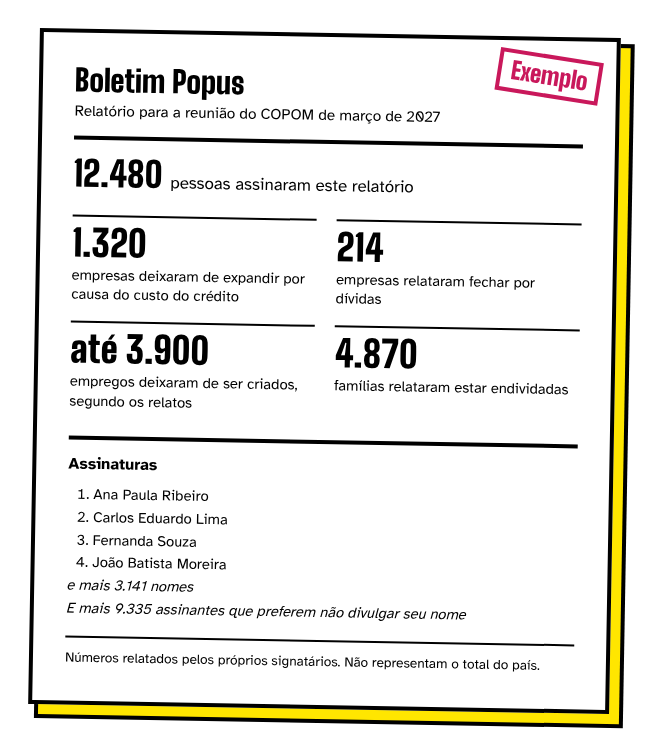
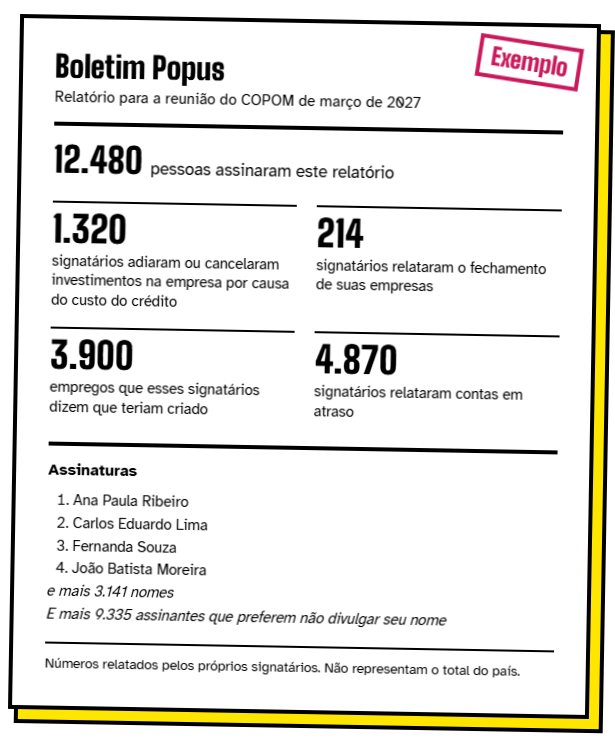
Relato: métricas definidas, UF sem município, política v0.2

Changed region(s): [[0.0, 0.0, 1.0, 0.9826]]

diff --git a/privacidade.html b/privacidade.html
@@ -265,7 +265,7 @@ tbody th { font-weight: 700; background: #f3f3f3; }
 <header class="topo">
   <a class="marca-pequena" href="/">Boletim<span>Popus</span></a>
   <h1>Política de privacidade</h1>
-  <p class="versao">Versão 0.1 · 11 de novembro de 2026</p>
+  <p class="versao">Versão 0.2 · 12 de novembro de 2026</p>
   <!-- MINUTA: remover este aviso e as marcas [PENDENTE] depois da revisão jurídica. -->
   <p class="minuta">Minuta em revisão jurídica. Este texto ainda não está em vigor e pode mudar antes do lançamento.</p>
 </header>
@@ -275,9 +275,10 @@ tbody th { font-weight: 700; background: #f3f3f3; }
   <section class="resumo" aria-labelledby="t-resumo">
     <h2 id="t-resumo">Em poucas palavras</h2>
     <ul>
-      <li>Para assinar, pedimos <strong>nome, e-mail e CPF</strong>. UF e município são opcionais.</li>
+      <li>Para assinar, pedimos <strong>nome, e-mail e CPF</strong>. O estado (UF) é opcional.</li>
       <li>Assinar um abaixo-assinado revela uma opinião política. Por isso, <strong>tratamos todos os seus dados como dados sensíveis</strong> e só usamos com o seu consentimento.</li>
       <li><strong>Seu CPF nunca é publicado nem enviado a ninguém.</strong> Ele serve só para garantir uma assinatura por pessoa e é guardado de forma embaralhada.</li>
+      <li>Depois de assinar, você pode <strong>contar como os juros afetaram sua vida</strong>, num questionário opcional, com um consentimento próprio. As respostas só entram no relatório como números somados, nunca individualmente.</li>
       <li><strong>Seu nome só aparece no relatório e no site se você autorizar.</strong> Se autorizar, ele pode aparecer em buscadores como o Google.</li>
       <li>O relatório é entregue ao Banco Central e ao Ministério da Fazenda e publicado no site antes de cada reunião do COPOM.</li>
       <li><strong>Não vendemos seus dados</strong>, não usamos publicidade e não rastreamos se você abre nossos e-mails.</li>
@@ -333,11 +334,28 @@ tbody th { font-weight: 700; background: #f3f3f3; }
         <tr><th scope="row">Nome completo</th><td>Sim</td><td>Publicado só se você autorizar.</td></tr>
         <tr><th scope="row">E-mail</th><td>Sim</td><td>Usado para confirmar a assinatura e para você gerenciá-la.</td></tr>
         <tr><th scope="row">CPF</th><td>Sim</td><td>Nunca publicado nem enviado. Veja a <a href="#cpf">seção 5</a>.</td></tr>
-        <tr><th scope="row">UF e município</th><td>Não</td><td>Usados só em números regionais agregados.</td></tr>
+        <tr><th scope="row">Estado (UF)</th><td>Não</td><td>Usado só para contar quantas assinaturas há em cada estado.</td></tr>
         <tr><th scope="row">Suas escolhas</th><td>Sim</td><td>Se autoriza publicar o nome, se quer receber lembretes e a declaração de que tem 18 anos ou mais.</td></tr>
       </tbody>
     </table>
   </div>
+
+  <h3>Dados que você informa no relato (opcional)</h3>
+  <p>Depois de assinar, você pode responder um questionário sobre como os juros afetaram você nos últimos 12 meses. Ele só é aberto com um consentimento próprio, separado do da assinatura, e as perguntas que aparecem dependem das suas respostas. <span class="pendente">[PENDENTE: revisão jurídica das perguntas do relato]</span></p>
+  <div class="tabela">
+    <table>
+      <thead><tr><th scope="col">Tema</th><th scope="col">O que perguntamos</th></tr></thead>
+      <tbody>
+        <tr><th scope="row">Como os juros te afetaram</th><td>Se como pessoa física, como dono, sócio ou administrador de empresa, ou os dois.</td></tr>
+        <tr><th scope="row">Sua empresa</th><td>Se ela fechou, pediu recuperação judicial ou extrajudicial ou renegociou dívidas para não fechar; quantas pessoas trabalhavam nela; se você adiou ou desistiu de um investimento e quantas pessoas contrataria; o CNPJ, se quiser informar.</td></tr>
+        <tr><th scope="row">Crédito fora de banco</th><td>Só se você pegou dinheiro emprestado com juros fora de banco ou financeira (sim ou não). Não perguntamos de quem, quanto nem onde.</td></tr>
+        <tr><th scope="row">Compras</th><td>Se você adiou ou desistiu de comprar um veículo, um imóvel ou de reformar a casa.</td></tr>
+        <tr><th scope="row">Dívidas</th><td>Se tem contas em atraso, se acha que não vai conseguir pagá-las, a faixa da renda que vai para parcelas de dívidas, os tipos de dívida (rotativo, cheque especial, consignado, financiamento) e se teve o nome negativado.</td></tr>
+        <tr><th scope="row">Papel dos juros</th><td>Se os juros foram a causa principal ou um dos fatores.</td></tr>
+      </tbody>
+    </table>
+  </div>
+  <p>O CNPJ, se informado, é guardado só em forma embaralhada (HMAC), como o CPF, e serve apenas para não contar a mesma empresa duas vezes. Não pedimos valores em reais nem a sua renda.</p>
 
   <h3>Dados gerados quando você usa o site</h3>
   <ul>
@@ -352,7 +370,7 @@ tbody th { font-weight: 700; background: #f3f3f3; }
   <p>Se você escrever para o encarregado, guardamos a mensagem e o que for necessário para responder. Se pedirmos alguma informação para confirmar sua identidade, ela é usada só para isso e descartada assim que o pedido for atendido.</p>
 
   <h3>O que não coletamos</h3>
-  <p>Não pedimos telefone, endereço, data de nascimento nem renda. Não usamos ferramentas de análise de audiência, pixels de redes sociais nem publicidade, e não rastreamos aberturas ou cliques nos nossos e-mails.</p>
+  <p>Não pedimos telefone, endereço, município, data de nascimento, renda nem valores em reais. No relato, perguntamos apenas a faixa da renda que vai para parcelas de dívidas. Não usamos ferramentas de análise de audiência, pixels de redes sociais nem publicidade, e não rastreamos aberturas ou cliques nos nossos e-mails.</p>
 
   <!-- 4 -->
   <h2 id="finalidades">4. Para que usamos e com qual base legal</h2>
@@ -371,9 +389,14 @@ tbody th { font-weight: 700; background: #f3f3f3; }
           <td>Consentimento específico, numa caixa própria (art. 11, I)</td>
         </tr>
         <tr>
-          <th scope="row">Mostrar números regionais agregados</th>
-          <td>UF e município, se informados</td>
+          <th scope="row">Mostrar o número de assinaturas por estado</th>
+          <td>UF, se informada</td>
           <td>Consentimento (art. 11, I)</td>
+        </tr>
+        <tr>
+          <th scope="row">Somar os relatos e publicar os números agregados no relatório</th>
+          <td>Respostas do relato, CNPJ (embaralhado)</td>
+          <td>Consentimento específico, numa caixa própria (art. 11, I)</td>
         </tr>
         <tr>
           <th scope="row">Enviar e-mails necessários para a assinatura funcionar</th>
@@ -398,7 +421,7 @@ tbody th { font-weight: 700; background: #f3f3f3; }
       </tbody>
     </table>
   </div>
-  <p>Não usamos seus dados para nenhuma outra finalidade. Em especial, não cedemos a base de assinaturas a partidos, candidatos, empresas ou outras campanhas.</p>
+  <p>Não usamos seus dados para nenhuma outra finalidade. Em especial, não cedemos a base de assinaturas nem os relatos a partidos, candidatos, empresas ou outras campanhas.</p>
 
   <!-- 5 -->
   <h2 id="cpf">5. Como tratamos o seu CPF</h2>
@@ -410,16 +433,17 @@ tbody th { font-weight: 700; background: #f3f3f3; }
   </ol>
   <p>O código permite saber se o mesmo CPF já assinou, mas não permite recuperar o número. Se dois cadastros usarem o mesmo CPF, os dois saem da contagem até uma revisão manual.</p>
   <p><strong>Não consultamos a Receita Federal.</strong> Por isso, o relatório diz apenas que há uma assinatura por CPF com formato válido e e-mail confirmado, nunca que o CPF foi verificado.</p>
-  <p>Seu CPF nunca é publicado, nunca vai no relatório e nunca é enviado a órgãos públicos nem a fornecedores.</p>
+  <p>Seu CPF nunca é publicado, nunca vai no relatório e nunca é enviado a órgãos públicos nem a fornecedores. O mesmo vale para o CNPJ informado no relato.</p>
 
   <!-- 6 -->
   <h2 id="publicacao">6. O que é publicado e entregue</h2>
-  <p>Antes de cada reunião do COPOM, congelamos as assinaturas ativas e geramos um relatório em PDF. O relatório é protocolado na Ouvidoria do Banco Central e na plataforma Fala.BR, enviado ao Ministério da Fazenda e publicado no site.</p>
+  <p>Antes de cada reunião do COPOM, congelamos as assinaturas ativas e os relatos e geramos um relatório em PDF. O relatório é protocolado na Ouvidoria do Banco Central e na plataforma Fala.BR, enviado ao Ministério da Fazenda e publicado no site.</p>
   <h3>O relatório traz</h3>
   <ul>
     <li>o total de assinaturas e as novas assinaturas do ciclo;</li>
-    <li>números regionais <strong>agregados</strong>, calculados só sobre quem informou UF e município. Recortes com poucos signatários não são publicados, para que ninguém seja identificado;</li>
-    <li>um anexo com os <strong>nomes de quem autorizou a publicação</strong>, sem CPF, e-mail, UF ou município. Quem não autorizou entra só na contagem.</li>
+    <li>o número de assinaturas por estado, contado só sobre quem informou a UF;</li>
+    <li>números <strong>agregados</strong> dos relatos, sempre como contagem de signatários (por exemplo, "x signatários relataram o fechamento de suas empresas"). Nenhuma resposta individual é publicada;</li>
+    <li>um anexo com os <strong>nomes de quem autorizou a publicação</strong>, sem CPF, e-mail ou UF. Quem não autorizou entra só na contagem.</li>
   </ul>
   <div class="destaque">
     <p><strong>Se você autorizar a publicação do seu nome:</strong></p>
@@ -460,9 +484,10 @@ tbody th { font-weight: 700; background: #f3f3f3; }
     <table>
       <thead><tr><th scope="col">Situação</th><th scope="col">Por quanto tempo</th></tr></thead>
       <tbody>
-        <tr><th scope="row">Assinatura não confirmada por e-mail</th><td>Apagada após 7 dias</td></tr>
+        <tr><th scope="row">Assinatura não confirmada por e-mail</th><td>Apagada após 7 dias, junto com o relato, se houver</td></tr>
         <tr><th scope="row">Assinatura ativa</th><td>Enquanto você não retirar. A assinatura vale para todos os relatórios seguintes</td></tr>
-        <tr><th scope="row">Assinatura retirada</th><td>Nome, e-mail, CPF embaralhado, UF e município são apagados no congelamento seguinte. Até lá, você pode restaurar a assinatura. Se pedir, apagamos antes</td></tr>
+        <tr><th scope="row">Relato</th><td>Enquanto a assinatura estiver ativa, ou até você retirar o consentimento do relato</td></tr>
+        <tr><th scope="row">Assinatura retirada</th><td>Nome, e-mail, CPF embaralhado, UF e respostas do relato são apagados no congelamento seguinte. Até lá, você pode restaurar a assinatura. Se pedir, apagamos antes</td></tr>
         <tr><th scope="row">Registro mínimo de consentimento e retirada</th><td>Guardado como prova, mesmo depois da retirada, por <span class="pendente">[PENDENTE: prazo]</span></td></tr>
         <tr><th scope="row">Nomes em relatórios já entregues</th><td>Permanecem nesses relatórios, que são documentos históricos</td></tr>
         <tr><th scope="row">Registros de acesso (logs)</th><td>90 dias <span class="pendente">[PENDENTE: confirmar se o Marco Civil exige 6 meses]</span></td></tr>
@@ -488,7 +513,7 @@ tbody th { font-weight: 700; background: #f3f3f3; }
 
   <h3>Como pedir</h3>
   <ul>
-    <li><strong>Na página <a href="/meus-dados" data-em-breve="A página Meus Dados ainda está em construção.">Meus dados</a>:</strong> informe seu e-mail e enviaremos um link de acesso. Lá você vê seus dados, corrige o nome, muda a escolha de publicação, deixa de receber lembretes e retira ou restaura sua assinatura. Para que ninguém descubra quem assinou, a resposta é sempre "se houver cadastro, enviamos um link".</li>
+    <li><strong>Na página <a href="/meus-dados" data-em-breve="A página Meus Dados ainda está em construção.">Meus dados</a>:</strong> informe seu e-mail e enviaremos um link de acesso. Lá você vê seus dados, corrige o nome, muda a escolha de publicação, completa ou atualiza o relato, deixa de receber lembretes e retira ou restaura sua assinatura. Para que ninguém descubra quem assinou, a resposta é sempre "se houver cadastro, enviamos um link".</li>
     <li><strong>Por e-mail ao encarregado</strong> (<a href="mailto:privacidade@exemplo.org">privacidade@exemplo.org</a>): para qualquer outro pedido, ou se você perdeu o acesso ao e-mail cadastrado. Nesse caso, vamos pedir o mínimo necessário para confirmar que você é o titular.</li>
     <li><strong>Em todo e-mail que enviamos</strong> há um link para gerenciar ou retirar sua assinatura.</li>
   </ul>
@@ -496,7 +521,8 @@ tbody th { font-weight: 700; background: #f3f3f3; }
 
   <h3>O que acontece se você retirar o consentimento</h3>
   <ul>
-    <li><strong>Retirar a assinatura:</strong> ela deixa de contar nos próximos relatórios e seus dados são apagados como descrito na <a href="#guarda">seção 9</a>. Até o congelamento, enviamos um e-mail para você restaurar, caso não tenha sido você quem retirou.</li>
+    <li><strong>Retirar a assinatura:</strong> ela deixa de contar nos próximos relatórios, junto com o seu relato, e seus dados são apagados como descrito na <a href="#guarda">seção 9</a>. Até o congelamento, enviamos um e-mail para você restaurar, caso não tenha sido você quem retirou.</li>
+    <li><strong>Retirar o consentimento do relato:</strong> suas respostas são apagadas e deixam de contar nos próximos relatórios. A assinatura continua valendo.</li>
     <li><strong>Desautorizar a publicação do nome:</strong> sua assinatura continua contando, mas seu nome sai dos próximos relatórios.</li>
     <li><strong>Deixar de receber lembretes:</strong> sua assinatura continua ativa. Você segue recebendo só os e-mails necessários (<a href="#emails">seção 11</a>).</li>
   </ul>
@@ -513,6 +539,7 @@ tbody th { font-weight: 700; background: #f3f3f3; }
     <li>links de acesso a Meus dados, quando você pedir;</li>
     <li>aviso de retirada, com a opção de restaurar caso não tenha sido você;</li>
     <li>um aviso por ano de que sua assinatura continua ativa, com o link para gerenciá-la;</li>
+    <li>pedido de confirmação, se uma resposta do relato estiver muito fora do comum (por exemplo, uma empresa com mais de 100 funcionários). Sem a sua confirmação, essa resposta não entra na soma;</li>
     <li>avisos de mudanças importantes nesta política.</li>
   </ul>
   <h3>Só para quem marcou a caixa de lembretes</h3>
@@ -536,7 +563,7 @@ tbody th { font-weight: 700; background: #f3f3f3; }
   <h2 id="seguranca">13. Segurança</h2>
   <ul>
     <li>Todo o tráfego do site é criptografado (HTTPS).</li>
-    <li>O CPF é guardado só como código embaralhado, com chave secreta mantida fora do banco e das cópias de segurança.</li>
+    <li>O CPF e o CNPJ são guardados só como código embaralhado, com chave secreta mantida fora do banco e das cópias de segurança.</li>
     <li>Links de acesso são de uso único, expiram rápido e são guardados de forma embaralhada.</li>
     <li>As cópias de segurança são criptografadas.</li>
     <li>O acesso ao banco de dados é restrito ao responsável pelo projeto.</li>
@@ -550,7 +577,7 @@ tbody th { font-weight: 700; background: #f3f3f3; }
 
   <!-- 15 -->
   <h2 id="mudancas">15. Mudanças nesta política</h2>
-  <p>Cada versão desta política tem número e data, e guardamos em qual versão você deu cada consentimento. Se mudarmos algo importante, avisaremos por e-mail antes de a mudança valer. Se quisermos usar seus dados para uma finalidade nova, como um formulário de relato sobre o impacto dos juros na sua vida, vamos pedir um consentimento novo e separado.</p>
+  <p>Cada versão desta política tem número e data, e guardamos em qual versão você deu cada consentimento. Se mudarmos algo importante, avisaremos por e-mail antes de a mudança valer. Se quisermos usar seus dados para uma finalidade nova, vamos pedir um consentimento novo e separado.</p>
 
   <h2 id="contato">Contato</h2>
   <p>Dúvidas sobre esta política ou sobre seus dados: <a href="mailto:privacidade@exemplo.org">privacidade@exemplo.org</a>.</p>

diff --git a/index.html b/index.html
@@ -622,7 +622,7 @@ a { color: inherit; }
     <ol class="passos">
       <li>
         <h3>Você assina</h3>
-        <p>Com seu nome, e-mail e CPF; estado e cidade são opcionais. O CPF garante uma assinatura por pessoa e nunca é publicado. Leva menos de um minuto.</p>
+        <p>Com seu nome, e-mail e CPF; o estado é opcional. O CPF garante uma assinatura por pessoa e nunca é publicado. Leva menos de um minuto.</p>
       </li>
       <li>
         <h3>Você conta sua história <span class="opcional">(opcional)</span></h3>
@@ -643,7 +643,7 @@ a { color: inherit; }
     <div class="modelo">
       <div class="modelo-texto">
         <h3>Como o relatório vai ficar</h3>
-        <p>Além do total de assinaturas e dos nomes de quem autorizou a publicação, o relatório reúne o que as pessoas contam sobre o impacto dos juros na vida delas: empresas que deixaram de crescer, negócios que fecharam, famílias endividadas.</p>
+        <p>Além do total de assinaturas e dos nomes de quem autorizou a publicação, o relatório reúne o que os signatários contam sobre o impacto dos juros na vida deles: investimentos adiados, empresas fechadas, contas em atraso, compras que ficaram para depois.</p>
         <p>Os números deste modelo são fictícios e servem só para mostrar o formato.</p>
       </div>
 
@@ -657,10 +657,10 @@ a { color: inherit; }
         <p class="folha-total"><strong>12.480</strong> pessoas assinaram este relatório</p>
 
         <dl class="folha-numeros">
-          <div><dt>1.320</dt><dd>empresas deixaram de expandir por causa do custo do crédito</dd></div>
-          <div><dt>214</dt><dd>empresas relataram fechar por dívidas</dd></div>
-          <div><dt>até 3.900</dt><dd>empregos deixaram de ser criados, segundo os relatos</dd></div>
-          <div><dt>4.870</dt><dd>famílias relataram estar endividadas</dd></div>
+          <div><dt>1.320</dt><dd>signatários adiaram ou cancelaram investimentos na empresa por causa do custo do crédito</dd></div>
+          <div><dt>214</dt><dd>signatários relataram o fechamento de suas empresas</dd></div>
+          <div><dt>3.900</dt><dd>empregos que esses signatários dizem que teriam criado</dd></div>
+          <div><dt>4.870</dt><dd>signatários relataram contas em atraso</dd></div>
         </dl>
 
         <div class="folha-anexo">

diff --git a/README.md b/README.md
@@ -10,7 +10,7 @@ O Boletim Popus é um abaixo-assinado permanente contra a política de juros do 
 
 É um contraponto ao [Boletim Focus](https://www.bcb.gov.br/publicacoes/focus): o Focus reúne as projeções dos economistas do mercado; o Popus reúne a voz de quem toma crédito.
 
-> **Status:** protótipo. A landing page e a minuta da política de privacidade estão prontas, sem backend. O MVP vai coletar assinaturas e relatos desde o início. O primeiro relatório oficial está previsto para a reunião do COPOM de 16–17 de março de 2027.
+> **Status:** protótipo. A landing page e a minuta da política de privacidade estão prontas, sem backend. As métricas do relatório e as perguntas do relato estão definidas. O MVP vai coletar assinaturas e relatos desde o início. O primeiro relatório oficial está previsto para a reunião do COPOM de 16–17 de março de 2027.
 
 ## A ideia
 
@@ -30,8 +30,8 @@ A landing page é uma sequência de cartazes no estilo lambe-lambe, um por tema,
 
 | Passo | O que acontece |
 |---|---|
-| 1. Você assina | Com nome, e-mail e CPF; UF e município são opcionais. Leva menos de 1 minuto. O CPF garante uma assinatura por pessoa e nunca é publicado. |
-| 2. Você conta sua história (opcional) | Logo depois de assinar, você pode responder um questionário curto sobre como os juros afetaram sua vida, sua família ou sua empresa. |
+| 1. Você assina | Com nome, e-mail e CPF; o estado (UF) é opcional. Leva menos de 1 minuto. O CPF garante uma assinatura por pessoa e nunca é publicado. |
+| 2. Você conta sua história (opcional) | Logo depois de assinar, você pode responder um questionário curto sobre como os juros afetaram sua vida, sua família ou sua empresa nos últimos 12 meses. |
 | 3. Você confirma pelo e-mail | Sem o clique no link de confirmação, nem a assinatura nem o relato contam. |
 | 4. Sua assinatura vai no relatório | A assinatura vale para todos os ciclos até ser retirada. O nome só aparece se a pessoa autorizar; caso contrário, ela entra apenas na contagem. O relato entra só como número agregado. |
 
@@ -39,17 +39,24 @@ Só quem assina pode fazer o relato: assim, cada número do relatório se apoia 
 
 ## O relatório
 
-Cada reunião do COPOM gera um relatório, congelado 8 dias antes da reunião. Ele traz o total de assinaturas (com as novas do ciclo em destaque), números agregados dos relatos sobre o impacto dos juros, contexto com dados oficiais, a metodologia e um anexo só com os nomes de quem autorizou a publicação.
+Cada reunião do COPOM gera um relatório, congelado 8 dias antes da reunião. Ele traz o total de assinaturas (com as novas do ciclo em destaque) e o número de assinaturas por estado, números agregados dos relatos sobre o impacto dos juros, contexto com dados oficiais, a metodologia e um anexo só com os nomes de quem autorizou a publicação.
 
 <p align="center">
-  <img src="docs/img/relatorio-exemplo.png" alt="Modelo do relatório com números fictícios e carimbo de Exemplo: 12.480 assinaturas, empresas que deixaram de expandir, empresas que fecharam, empregos não criados, famílias endividadas e o anexo de nomes" width="420">
+  <img src="docs/img/relatorio-exemplo.png" alt="Modelo do relatório com números fictícios e carimbo de Exemplo: 12.480 assinaturas, signatários que adiaram investimentos, signatários que relataram o fechamento de suas empresas, empregos que teriam sido criados, signatários com contas em atraso e o anexo de nomes" width="420">
   <br>
   <sub>Modelo com números fictícios, como aparece na landing page.</sub>
 </p>
 
-Os números são **relatos dos signatários**, de uma amostra autosselecionada, e nunca são apresentados como estatística do país. O relatório diz o que a validação garante (uma assinatura por CPF com formato válido e e-mail confirmado) e nunca afirma que o CPF foi verificado na Receita Federal.
+Os números são **relatos dos signatários**, de uma amostra autosselecionada, e nunca são apresentados como estatística do país. O sujeito das frases é sempre o signatário ("x signatários relataram o fechamento de suas empresas"). O relatório diz o que a validação garante (uma assinatura por CPF com formato válido e e-mail confirmado) e nunca afirma que o CPF foi verificado na Receita Federal.
 
-As métricas publicadas ainda estão sendo definidas; o questionário do relato será derivado delas, de modo que cada pergunta corresponda a um número do relatório.
+### Métricas
+
+Cada pergunta do relato existe para produzir um número publicado:
+
+- **Eventos**, em duas visões ("desde a primeira edição" e "desde a última reunião do COPOM"): empresas fechadas, em recuperação ou que renegociaram dívidas para não fechar, e os postos de trabalho nelas; investimentos adiados ou cancelados e os empregos que teriam sido criados; compras adiadas de veículo, imóvel ou reforma; crédito tomado fora de banco; nome negativado.
+- **Situação**, como retrato dos últimos 12 meses: contas em atraso, sem condições de pagar, parte da renda que vai para parcelas de dívidas (em faixas compatíveis com a PEIC/CNC) e tipos de dívida.
+
+O relato não pede valores em reais nem a renda. O questionário completo será publicado na metodologia.
 
 ### Ciclo
 
@@ -65,21 +72,22 @@ As métricas publicadas ainda estão sendo definidas; o questionário do relato 
 Assinar um abaixo-assinado revela uma opinião política, que a LGPD trata como dado sensível. Por isso, a base inteira é tratada como sensível:
 
 - consentimentos em caixas separadas e não marcadas, com registro de data, versão do termo e IP; o relato tem consentimento próprio;
-- CPF guardado só como HMAC, com a chave fora do banco; nunca publicado nem enviado a terceiros;
-- assinaturas e relatos não confirmados por e-mail são apagados após 7 dias;
+- CPF guardado só como HMAC, com a chave fora do banco; nunca publicado nem enviado a terceiros. O CNPJ, opcional no relato, recebe o mesmo tratamento;
+- só a UF é pedida, sem município, telefone, endereço ou renda;
+- assinaturas e relatos não confirmados por e-mail são apagados após 7 dias; retirar a assinatura apaga também o relato;
 - relatos publicados só como números agregados;
 - gestão da assinatura sem senha, por link mágico de uso único, com retirada a qualquer momento;
 - sem ferramentas de análise de audiência, pixels, publicidade ou rastreamento de e-mails;
 - fontes servidas pelo próprio site, sem Google Fonts.
 
-A minuta da política está em [`privacidade.html`](privacidade.html) (versão 0.1, em revisão jurídica, ainda não em vigor).
+A minuta da política está em [`privacidade.html`](privacidade.html) (versão 0.2, em revisão jurídica, ainda não em vigor).
 
 ## Estrutura do repositório
 
 ```
 .
 ├── index.html          # Landing page (protótipo: HTML, CSS e JS num arquivo só)
-├── privacidade.html    # Minuta da política de privacidade (v0.1)
+├── privacidade.html    # Minuta da política de privacidade (v0.2)
 └── docs/
     └── img/            # Imagens deste README
 ```
@@ -88,7 +96,7 @@ Para ver o protótipo, basta abrir `index.html` no navegador. Links para página
 
 ## Stack planejada
 
-- **Backend:** Django + PostgreSQL, com o painel administrativo para moderar relatos e acionar os ciclos.
+- **Backend:** Django + PostgreSQL, com o painel administrativo para revisar relatos fora do comum e acionar os ciclos.
 - **Frontend:** templates do Django com um pouco de HTMX, reaproveitando o HTML e o CSS da landing.
 - **PDF:** WeasyPrint ou Typst, gráficos com matplotlib.
 - **E-mail:** Brevo, com rastreamento de aberturas e cliques desligado.
